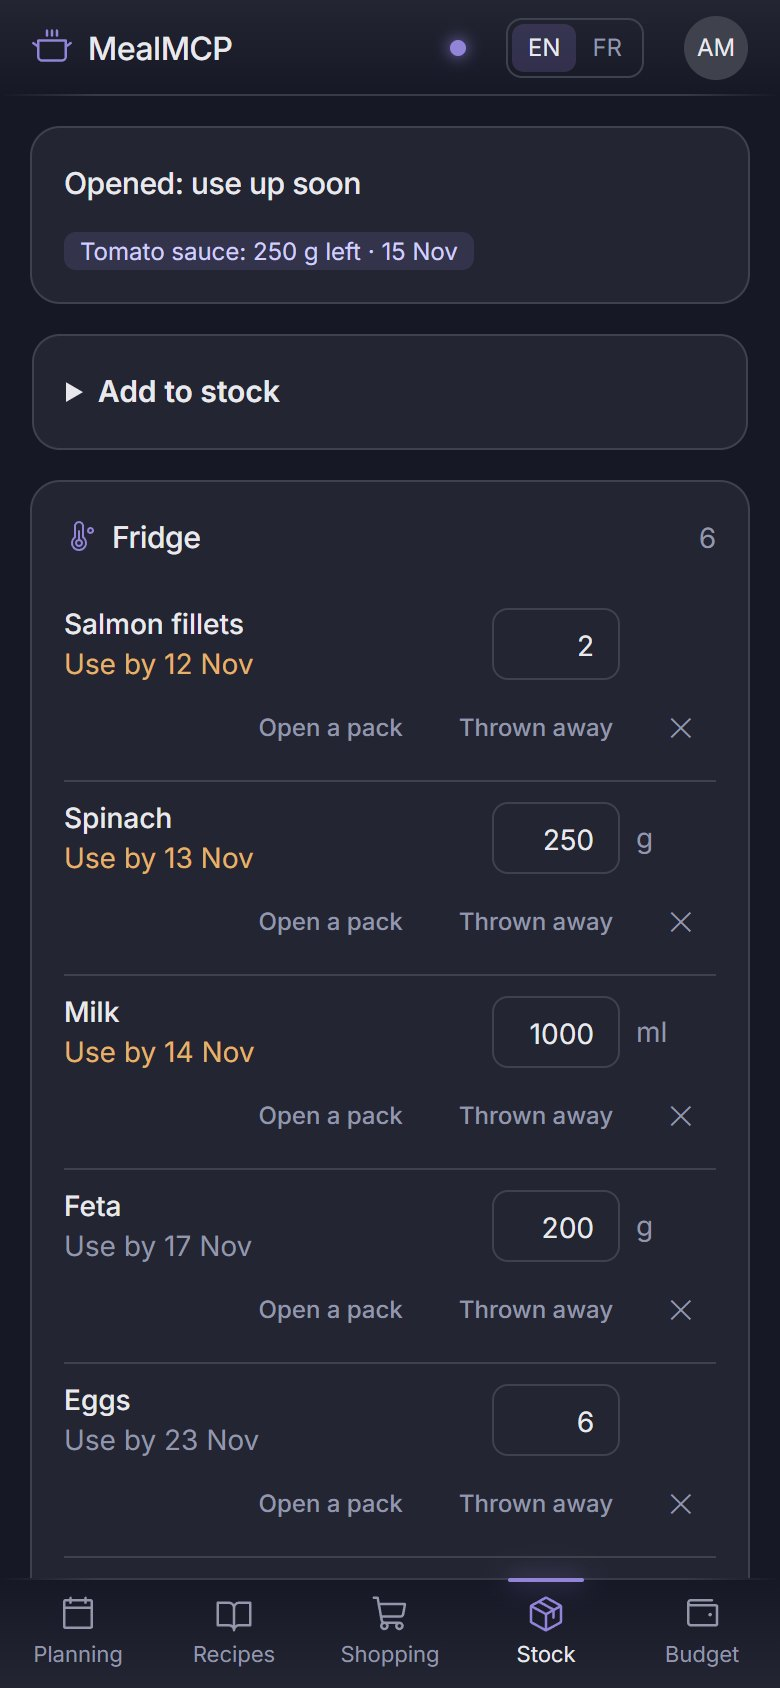
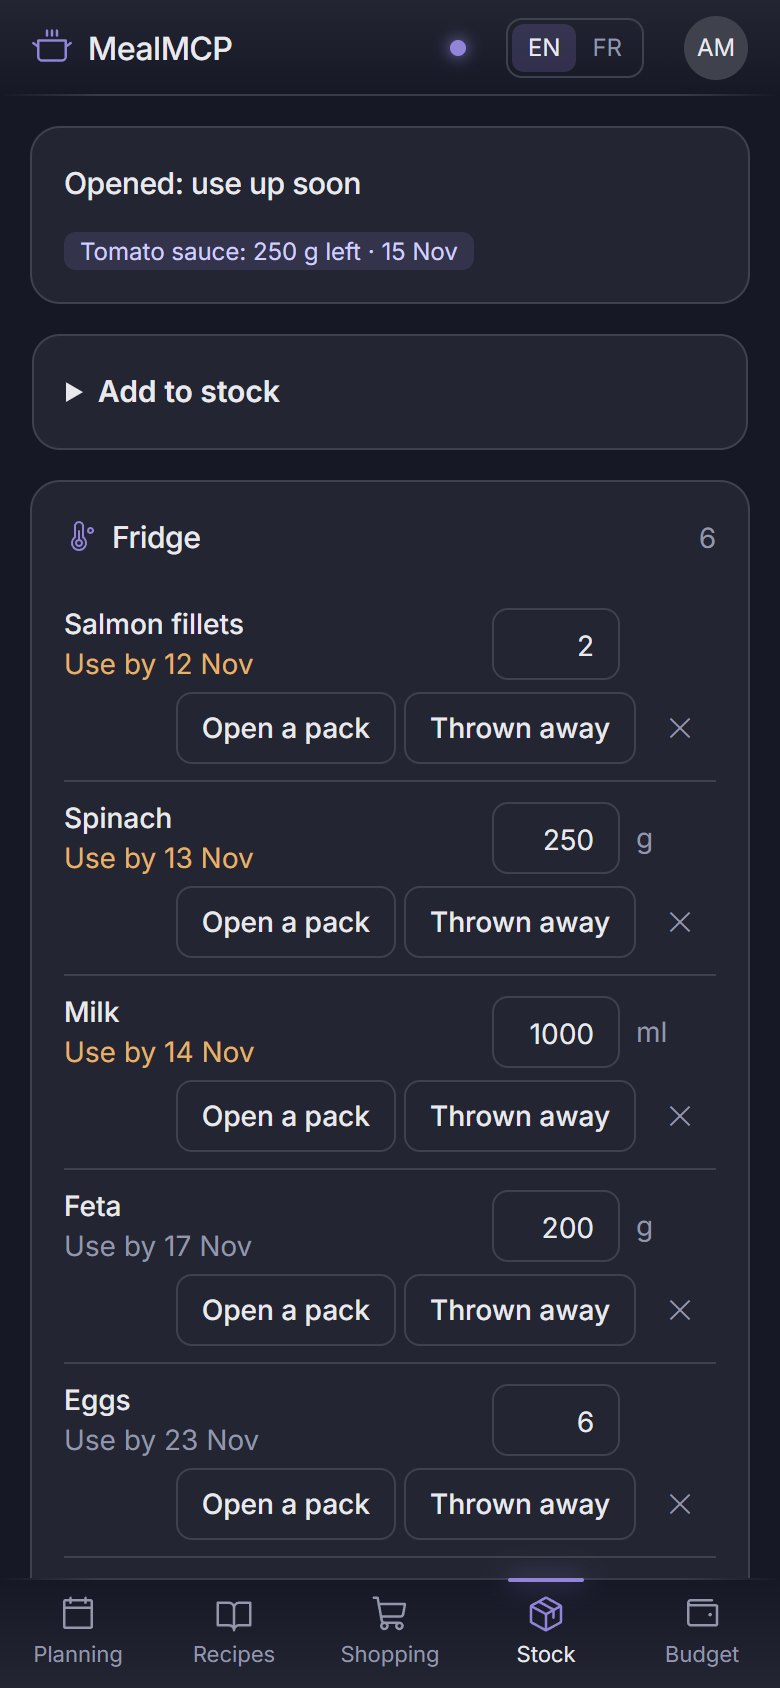
Stock actions as visible buttons, mobile recipe form, unsaved-changes bar in settings, automatic nutrition lookup

diff --git a/web/src/pages/Recipes.tsx b/web/src/pages/Recipes.tsx
@@ -383,18 +383,18 @@ function RecipeForm({ recipe, onDone }: { recipe?: Recipe; onDone: (id?: number)
       <form onSubmit={submit} className="space-y-3">
         <Input required placeholder={t('recipes.form.name')} aria-label={t('recipes.form.nameAria')} value={form.name} onChange={(e) => setForm({ ...form, name: e.target.value })} className="w-full" />
         <Input placeholder={t('recipes.form.description')} aria-label={t('recipes.form.descriptionAria')} value={form.description} onChange={(e) => setForm({ ...form, description: e.target.value })} className="w-full" />
-        <div className="flex flex-wrap gap-3 text-sm">
-          <label className="flex items-center gap-2">
+        <div className="grid grid-cols-3 gap-2 text-xs text-muted sm:flex sm:flex-wrap sm:gap-3 sm:text-sm sm:text-ink">
+          <label className="flex flex-col gap-1 sm:flex-row sm:items-center sm:gap-2">
             {t('recipes.form.servings')}
-            <Input type="number" min={1} required value={form.servings} onChange={(e) => setForm({ ...form, servings: e.target.value })} className="w-20" />
+            <Input type="number" min={1} required value={form.servings} onChange={(e) => setForm({ ...form, servings: e.target.value })} className="w-full sm:w-20" />
           </label>
-          <label className="flex items-center gap-2">
+          <label className="flex flex-col gap-1 sm:flex-row sm:items-center sm:gap-2">
             {t('recipes.form.time')}
-            <Input type="number" min={0} value={form.prepMinutes} onChange={(e) => setForm({ ...form, prepMinutes: e.target.value })} className="w-20" />
+            <Input type="number" min={0} value={form.prepMinutes} onChange={(e) => setForm({ ...form, prepMinutes: e.target.value })} className="w-full sm:w-20" />
           </label>
-          <label className="flex items-center gap-2">
+          <label className="flex flex-col gap-1 sm:flex-row sm:items-center sm:gap-2">
             {t('recipes.form.cookTime')}
-            <Input type="number" min={0} value={form.cookMinutes} onChange={(e) => setForm({ ...form, cookMinutes: e.target.value })} className="w-20" />
+            <Input type="number" min={0} value={form.cookMinutes} onChange={(e) => setForm({ ...form, cookMinutes: e.target.value })} className="w-full sm:w-20" />
           </label>
         </div>
         <Input placeholder={t('recipes.form.equipment')} aria-label={t('recipes.form.equipment')} value={form.equipment} onChange={(e) => setForm({ ...form, equipment: e.target.value })} className="w-full" />
@@ -403,16 +403,16 @@ function RecipeForm({ recipe, onDone }: { recipe?: Recipe; onDone: (id?: number)
         <fieldset className="space-y-2">
           <legend className="mb-1 font-semibold">{t('recipes.ingredients')}</legend>
           {rows.map((row, i) => (
-            <div key={i} className="flex flex-wrap items-center gap-2">
-              <Input disabled={row.toTaste} inputMode="decimal" placeholder={t('common.qty')} aria-label={t('common.quantity')} value={row.quantity} onChange={(e) => setRow(i, { quantity: e.target.value })} className="w-20" />
-              <Input disabled={row.toTaste} list="unit-names" placeholder={t('common.unit')} aria-label={t('common.unit')} value={row.unit} onChange={(e) => setRow(i, { unit: e.target.value })} className="w-24" />
-              <Input list="product-names" placeholder={t('recipes.form.ingredient')} aria-label={t('recipes.form.ingredient')} value={row.name} onChange={(e) => setRow(i, { name: e.target.value })} className="flex-1 basis-32" />
-              <Input placeholder={t('recipes.form.note')} aria-label={t('recipes.form.note')} value={row.note} onChange={(e) => setRow(i, { note: e.target.value })} className="flex-1 basis-24" />
-              <label className="flex items-center gap-1 text-sm">
+            <div key={i} className="grid grid-cols-[5rem_minmax(0,1fr)_auto] gap-2 rounded-lg border border-line p-2 sm:flex sm:flex-wrap sm:items-center sm:border-0 sm:p-0">
+              <Input disabled={row.toTaste} inputMode="decimal" placeholder={t('common.qty')} aria-label={t('common.quantity')} value={row.quantity} onChange={(e) => setRow(i, { quantity: e.target.value })} className="w-full sm:w-20" />
+              <Input disabled={row.toTaste} list="unit-names" placeholder={t('common.unit')} aria-label={t('common.unit')} value={row.unit} onChange={(e) => setRow(i, { unit: e.target.value })} className="w-full sm:w-24" />
+              <Input list="product-names" placeholder={t('recipes.form.ingredient')} aria-label={t('recipes.form.ingredient')} value={row.name} onChange={(e) => setRow(i, { name: e.target.value })} className="col-span-2 row-start-1 flex-1 basis-32" />
+              <Input placeholder={t('recipes.form.note')} aria-label={t('recipes.form.note')} value={row.note} onChange={(e) => setRow(i, { note: e.target.value })} className="col-span-3 flex-1 basis-24" />
+              <label className="col-start-3 row-start-2 flex items-center gap-1 text-sm">
                 <input type="checkbox" className="size-4 accent-(--accent)" checked={row.toTaste} onChange={(e) => setRow(i, { toTaste: e.target.checked })} />
                 {t('recipes.form.toTaste')}
               </label>
-              <Button variant="ghost" className="px-2" aria-label={t('recipes.form.removeIngredient')} onClick={() => setRows(rows.filter((_, j) => j !== i))}>
+              <Button variant="ghost" className="col-start-3 row-start-1 px-2" aria-label={t('recipes.form.removeIngredient')} onClick={() => setRows(rows.filter((_, j) => j !== i))}>
                 ✕
               </Button>
             </div>
@@ -423,12 +423,12 @@ function RecipeForm({ recipe, onDone }: { recipe?: Recipe; onDone: (id?: number)
         <fieldset className="space-y-2">
           <legend className="mb-1 font-semibold">{t('recipes.form.steps')}</legend>
           {steps.map((step, i) => (
-            <div key={i} className="flex flex-wrap items-center gap-2">
+            <div key={i} className="grid grid-cols-[1.5rem_repeat(3,minmax(0,1fr))_auto] gap-2 rounded-lg border border-line p-2 sm:flex sm:flex-wrap sm:items-center sm:border-0 sm:p-0">
               <span className="w-5 text-right text-sm text-muted">{i + 1}.</span>
-              <Input placeholder={t('recipes.form.step')} aria-label={t('recipes.form.step')} value={step.text} onChange={(e) => setStep(i, { text: e.target.value })} className="flex-1 basis-56" />
-              <Input inputMode="numeric" placeholder={t('recipes.form.stepMinutes')} aria-label={t('recipes.form.stepMinutes')} value={step.minutes} onChange={(e) => setStep(i, { minutes: e.target.value })} className="w-16" />
-              <Input inputMode="numeric" placeholder={t('recipes.form.stepTemperature')} aria-label={t('recipes.form.stepTemperature')} value={step.temperature} onChange={(e) => setStep(i, { temperature: e.target.value })} className="w-16" />
-              <Input placeholder={t('recipes.form.stepAppliance')} aria-label={t('recipes.form.stepAppliance')} value={step.appliance} onChange={(e) => setStep(i, { appliance: e.target.value })} className="w-32" />
+              <Input placeholder={t('recipes.form.step')} aria-label={t('recipes.form.step')} value={step.text} onChange={(e) => setStep(i, { text: e.target.value })} className="col-span-3 flex-1 basis-56" />
+              <Input inputMode="numeric" placeholder={t('recipes.form.stepMinutes')} aria-label={t('recipes.form.stepMinutes')} value={step.minutes} onChange={(e) => setStep(i, { minutes: e.target.value })} className="col-start-2 w-full sm:w-16" />
+              <Input inputMode="numeric" placeholder={t('recipes.form.stepTemperature')} aria-label={t('recipes.form.stepTemperature')} value={step.temperature} onChange={(e) => setStep(i, { temperature: e.target.value })} className="w-full sm:w-16" />
+              <Input placeholder={t('recipes.form.stepAppliance')} aria-label={t('recipes.form.stepAppliance')} value={step.appliance} onChange={(e) => setStep(i, { appliance: e.target.value })} className="w-full sm:w-32" />
               <Button variant="ghost" className="px-2" aria-label={t('recipes.form.removeStep')} onClick={() => setSteps(steps.filter((_, j) => j !== i))}>
                 ✕
               </Button>

diff --git a/web/src/pages/Nutrition.tsx b/web/src/pages/Nutrition.tsx
@@ -1,5 +1,5 @@
-import { useQuery } from '@tanstack/react-query';
-import { type FormEvent, useState } from 'react';
+import { useQuery, useQueryClient } from '@tanstack/react-query';
+import { type FormEvent, useEffect, useState } from 'react';
 import { api, useAction } from '../api';
 import { type MessageKey, useT } from '../i18n';
 import type { HouseholdSettings, NutritionHit, NutrientValues, Product, RecipeNutritionInfo } from '../types';
@@ -15,17 +15,33 @@ export function useNutritionEnabled(): boolean {
 const summary = (v: NutrientValues) =>
   [`${Math.round(v.kcal ?? 0)} kcal`, v.protein !== undefined ? `P ${v.protein}` : null, v.carbs !== undefined ? `G ${v.carbs}` : null, v.fat !== undefined ? `L ${v.fat}` : null].filter(Boolean).join(' · ');
 
-/** Calories and macros of a recipe, per serving, with how many ingredients had values. */
+// Recipes already tried this session, so a product Open Food Facts does not know is not searched again on every visit.
+const autofilled = new Set<number>();
+
+/** Calories and macros of a recipe, per serving, with how many ingredients had values. Missing values are looked up by themselves. */
 export function RecipeNutrition({ id }: { id: number }) {
   const t = useT();
   const on = useNutritionEnabled();
+  const queryClient = useQueryClient();
   const { data } = useQuery({ queryKey: ['recipe', id, 'nutrition'], enabled: on, queryFn: () => api.get<RecipeNutritionInfo>(`/recipes/${id}/nutrition`) });
+  const [looking, setLooking] = useState(false);
+  const incomplete = !!data && data.coverage.missing.length > 0;
+  useEffect(() => {
+    if (!on || !incomplete || autofilled.has(id)) return;
+    autofilled.add(id);
+    setLooking(true);
+    api
+      .post<{ filled: number }>(`/recipes/${id}/nutrition/autofill`, {})
+      .then((r) => (r.filled > 0 ? queryClient.invalidateQueries({ queryKey: ['recipe', id, 'nutrition'] }).then(() => queryClient.invalidateQueries({ queryKey: ['products'] })) : undefined))
+      .catch(() => undefined)
+      .finally(() => setLooking(false));
+  }, [on, incomplete, id, queryClient]);
   if (!on || !data) return null;
   const { perServing: p, coverage } = data;
   return (
     <div className="mt-2 text-sm">
       {coverage.covered === 0 ? (
-        <p className="text-muted">{t('nutrition.none')}</p>
+        <p className="text-muted">{looking ? t('nutrition.looking') : t('nutrition.none')}</p>
       ) : (
         <>
           <div className="flex flex-wrap items-center gap-1.5">
@@ -36,7 +52,7 @@ export function RecipeNutrition({ id }: { id: number }) {
             <Badge>{t('nutrition.fat')} {p.fat} g</Badge>
             <Badge>{t('nutrition.fiber')} {p.fiber} g</Badge>
           </div>
-          {!coverage.complete && <p className="mt-1 text-muted">{t('nutrition.incomplete', { names: coverage.missing.join(', ') })}</p>}
+          {!coverage.complete && <p className="mt-1 text-muted">{looking ? t('nutrition.looking') : t('nutrition.incomplete', { names: coverage.missing.join(', ') })}</p>}
         </>
       )}
     </div>

diff --git a/server/src/services/nutrition.ts b/server/src/services/nutrition.ts
@@ -34,6 +34,29 @@ export interface NutritionHit {
   per100: NutrientValues;
 }
 
+const plain = (text: string) =>
+  text
+    .normalize('NFD')
+    .replace(/[̀-ͯ]/g, '')
+    .toLowerCase()
+    .split(/[^a-z0-9]+/)
+    .filter((w) => w.length > 1);
+
+/** The hit closest to a product name: all its words present, then the shortest (most generic) name. */
+export function closestHit(name: string, hits: NutritionHit[]): NutritionHit | null {
+  const want = plain(name);
+  if (want.length === 0) return null;
+  let best: { hit: NutritionHit; score: number } | null = null;
+  for (const hit of hits) {
+    const words = new Set(plain(hit.name));
+    const found = want.filter((w) => [...words].some((x) => x === w || x.startsWith(w) || w.startsWith(x))).length;
+    if (found < Math.ceil(want.length / 2)) continue;
+    const score = (found / want.length) * 100 - hit.name.length * 0.2 - (hit.brands ? 5 : 0);
+    if (!best || score > best.score) best = { hit, score };
+  }
+  return best?.hit ?? null;
+}
+
 async function getJson(fetchImpl: Fetch, url: string): Promise<unknown> {
   let res: Response;
   try {
@@ -116,6 +139,35 @@ export function createNutritionService(
       }
       db.update(products).set({ nutrition: value ? JSON.stringify(value) : null }).where(and(mine, eq(products.id, id))).run();
       return productService.get(id);
+    },
+
+    /**
+     * Fills in the ingredients of a recipe that have no values yet, taking the closest Open Food Facts match by
+     * name. Values typed by hand are never replaced. Returns how many products were filled.
+     */
+    async autofillRecipe(recipeId: number): Promise<number> {
+      requireOn();
+      const recipe = recipeService.get(recipeId);
+      let filled = 0;
+      const seen = new Set<number>();
+      for (const ing of recipe.ingredients) {
+        if (ing.toTaste || seen.has(ing.productId)) continue;
+        seen.add(ing.productId);
+        const product = productService.get(ing.productId);
+        if (product.nutrition) continue;
+        let hits: NutritionHit[];
+        try {
+          hits = await svc.search({ query: product.name });
+        } catch {
+          break; // Open Food Facts is unreachable: stop, nothing is lost.
+        }
+        const hit = closestHit(product.name, hits);
+        if (!hit) continue;
+        const value: ProductNutrition = { per100: hit.per100, source: 'openfoodfacts', code: hit.code, label: [hit.name, hit.brands].filter(Boolean).join(' · '), auto: true };
+        db.update(products).set({ nutrition: JSON.stringify(value) }).where(and(mine, eq(products.id, product.id))).run();
+        filled += 1;
+      }
+      return filled;
     },
 
     /**

diff --git a/web/src/pages/Stock.tsx b/web/src/pages/Stock.tsx
@@ -173,21 +173,21 @@ function StockRow({ item }: { item: StockItem }) {
         </>
       )}
       {item.opened && (item.packSize === null || item.quantity >= item.packSize - 1e-9) && (
-        <Button variant="ghost" className="h-8 px-2 text-xs" aria-label={t('stock.unopenAria', { name: item.name })} onClick={() => run(() => api.post('/stock/' + item.id + '/unopen', {}))}>
+        <Button variant="secondary" className="h-9 px-3 text-sm sm:h-8 sm:px-2 sm:text-xs" aria-label={t('stock.unopenAria', { name: item.name })} onClick={() => run(() => api.post('/stock/' + item.id + '/unopen', {}))}>
           {t('stock.unopen')}
         </Button>
       )}
       {/* On phones the secondary actions sit on their own line, right-aligned under the quantity. */}
       <div className="flex w-full items-center justify-end gap-1 sm:ml-auto sm:w-auto">
         {!item.approximate && !item.opened && (
-          <Button variant="ghost" className="h-8 px-2 text-xs" aria-label={t('stock.openAria', { name: item.name })} onClick={() => run(() => api.post(`/stock/${item.id}/open`, {}))}>
+          <Button variant="secondary" className="h-9 px-3 text-sm sm:h-8 sm:px-2 sm:text-xs" aria-label={t('stock.openAria', { name: item.name })} onClick={() => run(() => api.post(`/stock/${item.id}/open`, {}))}>
             {t('stock.open')}
           </Button>
         )}
-        <Button variant="ghost" className="h-8 px-2 text-xs" aria-label={t('stock.discardAria', { name: item.name })} onClick={() => run(() => api.post(`/stock/${item.id}/discard`, { reason: days !== null && days < 0 ? 'expired' : 'spoiled' }))}>
+        <Button variant="secondary" className="h-9 px-3 text-sm sm:h-8 sm:px-2 sm:text-xs" aria-label={t('stock.discardAria', { name: item.name })} onClick={() => run(() => api.post(`/stock/${item.id}/discard`, { reason: days !== null && days < 0 ? 'expired' : 'spoiled' }))}>
           {t('stock.discard')}
         </Button>
-        <Button variant="ghost" className="h-8 px-2" aria-label={t('stock.remove', { name: item.name })} onClick={() => run(() => api.del(`/stock/${item.id}`))}>
+        <Button variant="ghost" className="size-9 px-0 sm:size-8" aria-label={t('stock.remove', { name: item.name })} onClick={() => run(() => api.del(`/stock/${item.id}`))}>
           ✕
         </Button>
       </div>

diff --git a/server/src/services/kitchen.test.ts b/server/src/services/kitchen.test.ts
@@ -3,7 +3,7 @@ import { createDb, type Db } from '../db/index.js';
 import { households } from '../db/schema.js';
 import { addDays, today } from '../domain/dates.js';
 import { createServices, type Services } from './index.js';
-import { createNutritionService } from './nutrition.js';
+import { closestHit, createNutritionService } from './nutrition.js';
 
 let db: Db;
 let svc: Services;
@@ -536,5 +536,24 @@ describe('nutrition module', () => {
 
     await n.setProduct({ id: oats.id });
     expect(svc.products.get(oats.id).nutrition).toBeNull();
+  });
+
+  it('fills missing values with the closest match and never overwrites values typed by hand', async () => {
+    svc.settings.set({ nutrition: { enabled: true } });
+    const n = make();
+    const recipe = svc.recipes.create({ name: 'Porridge', servings: 2, ingredients: [{ name: 'Oat flakes', quantity: 100, unit: 'g' }, { name: 'Milk', quantity: 200, unit: 'ml' }] });
+    const milk = svc.products.list().find((p) => p.name === 'Milk')!;
+    await n.setProduct({ id: milk.id, per100: { kcal: 46 } });
+    expect(await n.autofillRecipe(recipe.id)).toBe(1);
+    const oats = svc.products.list().find((p) => p.name === 'Oat flakes')!;
+    expect(svc.products.get(oats.id).nutrition).toMatchObject({ source: 'openfoodfacts', auto: true, code: '123456789012' });
+    expect(svc.products.get(milk.id).nutrition).toMatchObject({ source: 'manual' });
+    expect(await n.autofillRecipe(recipe.id)).toBe(0);
+  });
+
+  it('picks the most generic hit that contains the words of the name', () => {
+    const hit = (name: string, brands: string | null = null) => ({ code: name, name, brands, per100: { kcal: 1 } });
+    expect(closestHit('Tomate', [hit('Pizza tomate mozzarella'), hit('Tomates', null), hit('Sauce tomate bio', 'X')])?.name).toBe('Tomates');
+    expect(closestHit('Riz basmati', [hit('Chocolat noir')])).toBeNull();
   });
 });

diff --git a/web/src/i18n/fr.ts b/web/src/i18n/fr.ts
@@ -304,6 +304,8 @@ export const fr: Messages = {
   'plan.budget.projected': 'projeté à {amount}',
   'settings.save': 'Enregistrer',
   'settings.saved': 'Enregistré',
+  'settings.unsaved': 'Modifications non enregistrées',
+  'settings.discard': 'Annuler',
   'settings.title': 'Réglages du foyer',
   'settings.servings': 'Nombre de personnes par défaut',
   'settings.servingsHelp': 'Les nouveaux repas planifiés sont adaptés à ce nombre, sauf si vous en choisissez un autre.',
@@ -365,6 +367,7 @@ export const fr: Messages = {
   'settings.nutrition': 'Nutrition',
   'settings.nutritionHelp': 'Optionnel. Affiche les calories et macros par recette. Les valeurs viennent d’Open Food Facts quand vous cherchez un produit (seul le nom du produit est envoyé) ou de ce que vous saisissez. Désactivé par défaut.',
   'settings.nutritionOn': 'Activer le module nutrition',
+  'nutrition.looking': 'Recherche des valeurs nutritionnelles sur Open Food Facts…',
   'nutrition.none': 'Pas encore de valeurs nutritionnelles. Ajoutez-les aux ingrédients dans Stock → Valeurs nutritionnelles.',
   'nutrition.perServing': 'Par portion :',
   'nutrition.protein': 'Protéines',

diff --git a/web/src/i18n/en.ts b/web/src/i18n/en.ts
@@ -307,6 +307,8 @@ export const en = {
   'plan.budget.projected': 'on track for {amount}',
   'settings.save': 'Save',
   'settings.saved': 'Saved',
+  'settings.unsaved': 'Unsaved changes',
+  'settings.discard': 'Discard',
   'settings.title': 'Household settings',
   'settings.servings': 'People eating by default',
   'settings.servingsHelp': 'New planned meals are scaled to this number unless you choose another.',
@@ -368,6 +370,7 @@ export const en = {
   'settings.nutrition': 'Nutrition',
   'settings.nutritionHelp': 'Optional. Shows calories and macros per recipe. Values come from Open Food Facts when you look a product up (only the product name is sent) or from what you type. Off by default.',
   'settings.nutritionOn': 'Turn on the nutrition module',
+  'nutrition.looking': 'Looking up nutrition values on Open Food Facts…',
   'nutrition.none': 'No nutrition values yet. Add them to the ingredients in Stock → Nutrition values.',
   'nutrition.perServing': 'Per serving:',
   'nutrition.protein': 'Protein',

diff --git a/server/src/api/router.ts b/server/src/api/router.ts
@@ -178,6 +178,7 @@ export function createApiRouter({ db, config, accounts, oauth, hub }: Deps) {
   r.get('/nutrition/search', async (req, res) => void res.json(await kitchen(req).nutrition.search(s.nutritionSearch.parse(req.query))));
   r.get('/nutrition/plan', (req, res) => void res.json(kitchen(req).nutrition.plan(s.nutritionPlan.parse(req.query))));
   r.get('/recipes/:id/nutrition', (req, res) => void res.json(kitchen(req).nutrition.recipe(id(req.params))));
+  r.post('/recipes/:id/nutrition/autofill', async (req, res) => void res.json({ filled: await kitchen(req).nutrition.autofillRecipe(id(req.params)) }));
   r.put('/products/:id/nutrition', async (req, res) => void res.json(await kitchen(req).nutrition.setProduct(s.productNutritionSet.parse({ ...req.body, id: id(req.params) }))));
   r.get('/seasons', (req, res) => void res.json(kitchen(req).seasons.list(s.seasonList.parse(req.query))));
   r.get('/plan/history', (req, res) => void res.json(kitchen(req).planner.history(s.mealHistory.parse(req.query))));

diff --git a/web/src/pages/Account.tsx b/web/src/pages/Account.tsx
@@ -194,6 +194,17 @@ function SettingsCard() {
         <input type="checkbox" className="size-4 accent-(--accent)" checked={!!current.nutrition?.enabled} onChange={(e) => change({ ...current, nutrition: { enabled: e.target.checked } })} />
         {t('settings.nutritionOn')}
       </label>
+      {draft && (
+        <div role="status" className="sticky bottom-20 z-10 mt-4 flex flex-wrap items-center justify-between gap-2 rounded-xl border border-accent bg-surface p-3 text-sm shadow-lg sm:bottom-4">
+          <span className="font-medium">{t('settings.unsaved')}</span>
+          <span className="flex gap-2">
+            <Button onClick={() => setDraft(null)}>{t('settings.discard')}</Button>
+            <Button variant="primary" disabled={pending} onClick={save}>
+              {t('settings.save')}
+            </Button>
+          </span>
+        </div>
+      )}
     </Card>
   );
 }

diff --git a/web/src/types.ts b/web/src/types.ts
@@ -56,7 +56,7 @@ export interface Product {
   openedShelfLifeDays: number | null;
   aliases: string[];
   /** Calories and macros per 100 g, when the nutrition module has them. */
-  nutrition: { per100: NutrientValues; source: 'openfoodfacts' | 'manual'; code?: string; label?: string } | null;
+  nutrition: { per100: NutrientValues; source: 'openfoodfacts' | 'manual'; code?: string; label?: string; auto?: boolean } | null;
 }
 
 export type NutrientValues = Partial<Record<'kcal' | 'protein' | 'carbs' | 'sugars' | 'fat' | 'saturatedFat' | 'fiber' | 'salt', number>>;

diff --git a/server/src/domain/nutrition.ts b/server/src/domain/nutrition.ts
@@ -16,6 +16,8 @@ export interface ProductNutrition {
   code?: string;
   /** Name of that product, so the household can tell what was picked. */
   label?: string;
+  /** Picked automatically as the closest match to the product name (not chosen by the household). */
+  auto?: boolean;
 }
 
 /** Open Food Facts field names for each nutrient (all expressed per 100 g, kcal and grams). */
